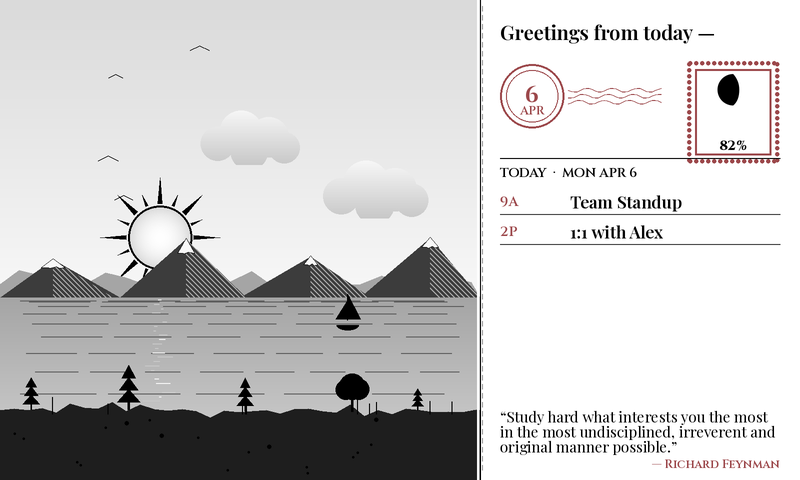
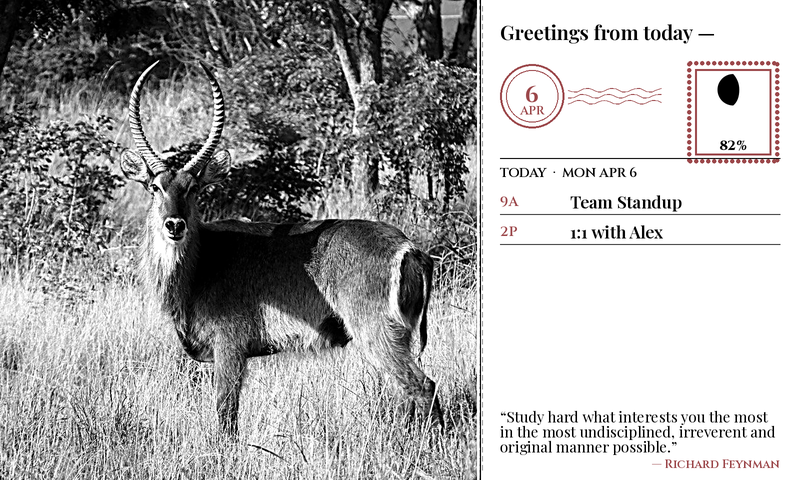
Use a photograph for the postcard theme's view
The postcard's left panel now shows a bundled photo of a waterbuck
(assets/postcard_photo.jpg) instead of the procedural landscape. The
photo is centre-cropped to the scene, autocontrasted and unsharp-masked
so the subject separates from the dark treeline after the 1-bit
Floyd-Steinberg dither. EXIF metadata, including GPS, was stripped from
the source JPEG before committing.

The procedural scene stays as the fallback when the file is missing or
unreadable. setup.py and MANIFEST.in ship the photo in distributions.

Claude-Session: https://claude.ai/code/session_01Mn5iMf7JrK2TJpmbDbyj4p

diff --git a/src/render/components/postcard_panel.py b/src/render/components/postcard_panel.py
@@ -4,15 +4,15 @@ The composition is a divided rectangle:
 
   ┌─────────────────────────────────┬──────────────────────────────────┐
   │                                 │  Greeting (Playfair italic)      │
-  │   Procedural dithered scene     │  ────────────────────────────    │
-  │   (sky + horizon + landscape    │  POSTMARK    [ STAMP w/ MOON ]   │
-  │   + foreground), keyed to the   │                                  │
-  │   weather icon and daypart.     │  TODAY  •  May 23, 2026          │
+  │   Dithered photograph           │  ────────────────────────────    │
+  │   (assets/postcard_photo.jpg);  │  POSTMARK    [ STAMP w/ MOON ]   │
+  │   procedural scene keyed to     │                                  │
+  │   weather + daypart if missing. │  TODAY  •  May 23, 2026          │
   │                                 │  9:00a  TEAM STANDUP             │
   │   Floyd-Steinberg-dithered      │  12:30p LUNCH WITH SARA          │
-  │   greyscale gradients become    │  2:00p  DENTIST                  │
+  │   greyscale becomes             │  2:00p  DENTIST                  │
   │   engraving on Waveshare;       │  6:00p  YOGA — STUDIO 12         │
-  │   stay grey on Inky RGB so the  │                                  │
+  │   stays grey on Inky RGB so the │                                  │
   │   stamp's red accent reads.     │  "Wish you were here"            │
   │                                 │   — quote / signature            │
   └─────────────────────────────────┴──────────────────────────────────┘
@@ -22,9 +22,10 @@ canvases the same greyscale values are emitted as ``(v, v, v)`` triples
 plus a warm red accent for the postmark and stamp border, so the eInk
 panel's color story stays consistent with the rest of the dashboard.
 
-The scene is generated entirely from PIL primitives — no external
-asset paths — so the component is fully offline and deterministic for
-a given date + weather icon.
+The view is a bundled photograph (``assets/postcard_photo.jpg``),
+centre-cropped to the scene and autocontrasted for the dither.  When the
+file is missing the panel falls back to a procedural scene built from PIL
+primitives and keyed to the weather icon and daypart.
 """
 
 from __future__ import annotations
@@ -34,8 +35,9 @@ import random
 from datetime import date, datetime
 from functools import lru_cache
 
-from PIL import Image, ImageDraw
+from PIL import Image, ImageDraw, ImageFilter, ImageOps
 
+from src._assets import asset_root
 from src.data.models import CalendarEvent, DashboardData
 from src.render.artkit import accent_red as _accent_red
 from src.render.artkit import grey as _grey
@@ -67,6 +69,12 @@ SS = 2  # supersample factor — must match the theme's canvas multiplier.
 SCENE_W = 480 * SS
 BACK_PAD_X = 20 * SS
 BACK_PAD_Y = 18 * SS
+
+# The view photograph; absent in a stripped install, which falls back to the
+# procedural scene.
+_PHOTO_PATH = asset_root() / "assets" / "postcard_photo.jpg"
+# Horizontal crop centre: the subject sits right of the frame's middle.
+_PHOTO_CENTER_X = 0.58
 
 # Centre of the scene — sun/moon, mountains etc. position relative to this.
 _SCENE_CX = SCENE_W // 2
@@ -101,7 +109,8 @@ def draw_postcard(
     scene_rect = (x0, y0, x0 + SCENE_W, y0 + h)
     back_rect = (x0 + SCENE_W, y0, x0 + w, y0 + h)
 
-    _draw_scene(image, scene_rect, data, today, now)
+    if not _draw_photo(image, scene_rect):
+        _draw_scene(image, scene_rect, data, today, now)
     _draw_back(
         draw,
         image,
@@ -116,7 +125,32 @@ def draw_postcard(
     _draw_center_crease(image, x0 + SCENE_W, y0, h)
 
 
-# Scene dispatch (left panel)
+# Photo view (left panel)
+
+
+@lru_cache(maxsize=4)
+def _load_photo(path: str, size: tuple[int, int]) -> Image.Image | None:
+    """Return the photo as an ``"L"`` image cropped to *size*, or None if unreadable."""
+    try:
+        img = Image.open(path).convert("L")
+    except OSError:
+        return None
+    img = ImageOps.fit(img, size, Image.Resampling.LANCZOS, centering=(_PHOTO_CENTER_X, 0.5))
+    # Stretch the tones and sharpen edges so the subject survives the 1-bit dither.
+    img = ImageOps.autocontrast(img, cutoff=1)
+    return img.filter(ImageFilter.UnsharpMask(radius=4, percent=120, threshold=2))
+
+
+def _draw_photo(image: Image.Image, rect: tuple[int, int, int, int]) -> bool:
+    """Paste the view photo into *rect*; False when the file can't be read."""
+    photo = _load_photo(str(_PHOTO_PATH), (rect[2] - rect[0], rect[3] - rect[1]))
+    if photo is None:
+        return False
+    image.paste(photo.convert(image.mode), rect[:2])
+    return True
+
+
+# Scene dispatch (procedural fallback)
 
 
 def _scene_kind(icon: str | None) -> tuple[str, bool]:

diff --git a/tests/test_postcard_theme.py b/tests/test_postcard_theme.py
@@ -16,6 +16,7 @@ from src.data.models import (
 )
 from src.dummy_data import generate_dummy_data
 from src.render.canvas import render_dashboard
+from src.render.components import postcard_panel
 from src.render.components.postcard_panel import (
     _daypart_palette,
     _events_today,
@@ -325,6 +326,28 @@ class TestNoWeatherFallback:
         theme = load_theme("postcard")
         img = render_dashboard(data, DisplayConfig(), theme=theme)
         assert img.size == (800, 480)
+
+
+class TestPhotoView:
+    def test_scene_is_the_photo(self, tmp_path, monkeypatch):
+        """The left panel paints the bundled photo, not the procedural scene."""
+        with_photo = _render()
+        monkeypatch.setattr(postcard_panel, "_PHOTO_PATH", tmp_path / "missing.jpg")
+        procedural = _render()
+        scene = (0, 0, 470, 480)
+        assert with_photo.crop(scene).tobytes() != procedural.crop(scene).tobytes()
+
+    def test_missing_photo_falls_back_to_the_procedural_scene(self, tmp_path, monkeypatch):
+        monkeypatch.setattr(postcard_panel, "_PHOTO_PATH", tmp_path / "missing.jpg")
+        img = _render()
+        scene_ink = sum(1 for p in flatten_pixels(img.crop((0, 0, 470, 480))) if not p)
+        assert scene_ink > 10_000
+
+    def test_photo_is_cropped_to_the_scene(self):
+        photo = postcard_panel._load_photo(str(postcard_panel._PHOTO_PATH), (960, 960))
+        assert photo is not None
+        assert photo.mode == "L"
+        assert photo.size == (960, 960)
 
 
 class TestRenderWithDummyData:

diff --git a/src/render/themes/postcard.py b/src/render/themes/postcard.py
@@ -1,10 +1,9 @@
 """postcard.py — vintage dithered postcard theme.
 
 A divided composition that reads like a piece of mail picked up off the
-doormat.  The left two-thirds is a Floyd-Steinberg-dithered procedural
-"view" — sky, horizon, landscape silhouette, foreground — keyed to the
-current weather icon and daypart so the scene shifts from dawn to dusk
-and from a clear afternoon to a thunderstorm.  The right third is the
+doormat.  The left two-thirds is a Floyd-Steinberg-dithered photograph
+(``assets/postcard_photo.jpg``); a procedural scene keyed to the weather
+icon and daypart stands in when the file is missing.  The right third is the
 postcard's back: cursive greeting (the daily quote), a circular postmark
 that doubles as the dateline, a stamp carrying the moon phase glyph, and
 a stack of ruled "address" lines listing today's events.
@@ -14,10 +13,9 @@ the greeting, **Cinzel** small caps for the address rules and labels,
 and a hand-lettered feel achieved by mixing weights against the dither.
 
 On Inky the canvas opts into RGB (``prefer_color_on_inky=True``); the
-postmark + stamp border pick up the inky-red accent while the scene
+postmark + stamp border pick up the inky-red accent while the view
 stays grayscale.  Waveshare quantizes the whole image to 1-bit via
-Floyd-Steinberg, turning the procedural greyscale gradients into the
-characteristic engraving-style dither.
+Floyd-Steinberg, giving the view its engraving-style dither.
 """
 
 from __future__ import annotations

diff --git a/setup.py b/setup.py
@@ -14,7 +14,7 @@ class BuildWithAssets(build_py):
         assets = Path(self.build_lib) / "src" / "_assets"
         copytree(root / "fonts", assets / "fonts", dirs_exist_ok=True)
         copytree(root / "assets" / "previews", assets / "assets" / "previews", dirs_exist_ok=True)
-        for source in ("config/quotes.json", "assets/moon_full.png"):
+        for source in ("config/quotes.json", "assets/moon_full.png", "assets/postcard_photo.jpg"):
             destination = assets / source
             destination.parent.mkdir(parents=True, exist_ok=True)
             copy2(root / source, destination)

diff --git a/docs/themes.md b/docs/themes.md
@@ -203,7 +203,7 @@ Rules that reference weather or calendar data silently skip on the first boot (n
 
 | Theme | Best for | Notes |
 |---|---|---|
-| `postcard` | nostalgic vista | Procedurally-drawn dithered postcard: left two-thirds is a scene (sky, mountains, water, foreground) keyed to the OWM icon + daypart; right third is the postcard back (cursive greeting, red postmark with month/day, postage stamp with moon glyph, ruled "address" lines listing today's events, daily quote as signature). Floyd-Steinberg quantization. |
+| `postcard` | nostalgic vista | Dithered postcard: left two-thirds is a photograph (a waterbuck in tall grass, `assets/postcard_photo.jpg`), with a procedural scene keyed to the OWM icon + daypart as the fallback when the file is missing; right third is the postcard back (cursive greeting, red postmark with month/day, postage stamp with moon glyph, ruled "address" lines listing today's events, daily quote as signature). Floyd-Steinberg quantization. |
 
 ### Panoramic themes
 
@@ -423,7 +423,7 @@ Needs weather; no extra fetcher. The barometer keeps a short pressure history in
 
 #### postcard
 
-Procedurally-drawn dithered postcard composed in two parts. The left two-thirds is a "view" scene picked from the current OWM icon and daypart — sky gradient, two-layer mountain silhouettes, water with ripple lines, foreground shore and reeds, plus sun, moon, clouds, rain streaks, lightning, snowflakes, or fog bands as the weather warrants. The right third is the postcard back: a cursive greeting, a circular red postmark with the current month and day, a perforated postage stamp carrying the moon-phase glyph, four ruled "address" lines listing today's events, and the daily quote as the signature. A 3 px white gutter with a dashed shadow forms the centre crease. Floyd-Steinberg quantization turns the procedural greyscale gradients into engraving-style halftone. On Inky the postmark and the stamp frame render in red.
+Dithered postcard composed in two parts. The left two-thirds is the "view": a bundled photograph of a waterbuck (`assets/postcard_photo.jpg`), centre-cropped, autocontrasted and sharpened so it survives the dither. If the file is missing, a procedural scene keyed to the OWM icon and daypart (sky, mountains, water, shore, weather overlays) is drawn instead. The right third is the postcard back: a cursive greeting, a circular red postmark with the current month and day, a perforated postage stamp carrying the moon-phase glyph, four ruled "address" lines listing today's events, and the daily quote as the signature. A 3 px white gutter with a dashed shadow forms the centre crease. Floyd-Steinberg quantization turns the procedural greyscale gradients into engraving-style halftone. On Inky the postmark and the stamp frame render in red.
 
 [![Postcard theme](../assets/previews/theme_postcard.png)](../assets/previews/theme_postcard.png)
 

diff --git a/CLAUDE.md b/CLAUDE.md
@@ -316,7 +316,7 @@ art themes, in the panel's module docstring. Keep new entries to that shape.
   - `moonphase*`: discs come from `moon_render.py` (procedural; `moonphase_photo` occludes `assets/moon_full.png` via `ThemeStyle.use_moon_photo`); `moonphase_invert` and `moonphase_photo` derive from `moonphase_theme()` with `dataclasses.replace`.
   - `monthly`: Sunday-first six-row grid; `prefer_color_on_inky=True` heatmap.
   - `photo`: `background_fn` pastes a Floyd-Steinberg-dithered `photo.path`; `draw_order` is empty.
-  - `postcard`: seeded procedural art.
+  - `postcard`: the view is `assets/postcard_photo.jpg` (shipped by `setup.py` / `MANIFEST.in`); the seeded procedural scene is the fallback when it is missing.
   - `weatherglass`: 2× supersampled, `threshold` quantization, pressure history in state (`state_dir=None` on dry and dummy runs).
   - `day_arc`: axis-strip elements have disjoint row bands (`TestAxisStripBands`); `build_time_axis()` needs events already filtered to the day; `agenda_day()` rolls over only after sunset and after every timed event has ended.
   - `halftone_agenda`: imports `agenda_day` from `day_arc_panel` rather than copying it; sun times are normalised once in `_sun_times`; `TEMP_PT = 78` and the `inline_range` / `stacks_time` rules are pinned by tests; `supports_partial_refresh=False`.

diff --git a/CHANGELOG.md b/CHANGELOG.md
@@ -20,6 +20,9 @@ The format is based on [Keep a Changelog](https://keepachangelog.com/).
 
 ### Changed
 
+- The `postcard` theme's view is now a photograph, bundled at
+  `assets/postcard_photo.jpg`, instead of the procedural landscape. The
+  procedural scene remains as the fallback when the file is missing.
 - `make install-display-drivers` installs the Waveshare library at the recorded
   commit instead of the vendor's default branch, and with `--no-deps`, so its
   host-probing `setup.py` no longer adds GPIO packages `requirements-pi.txt`
